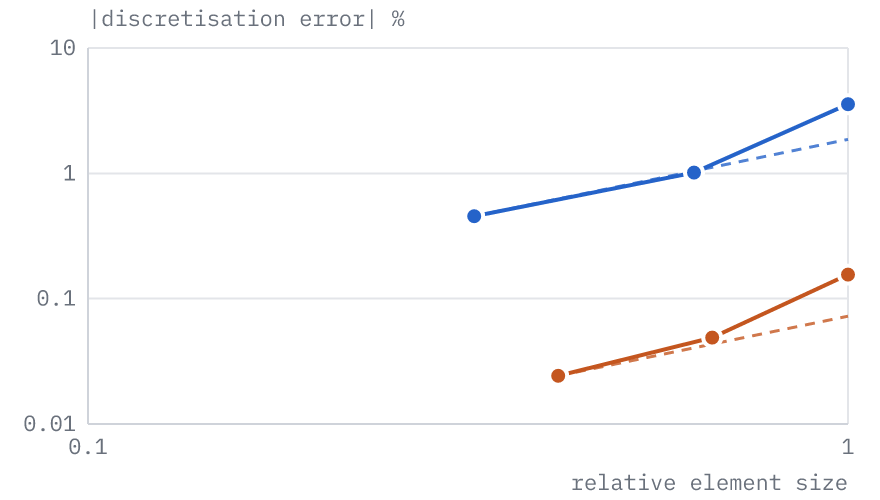
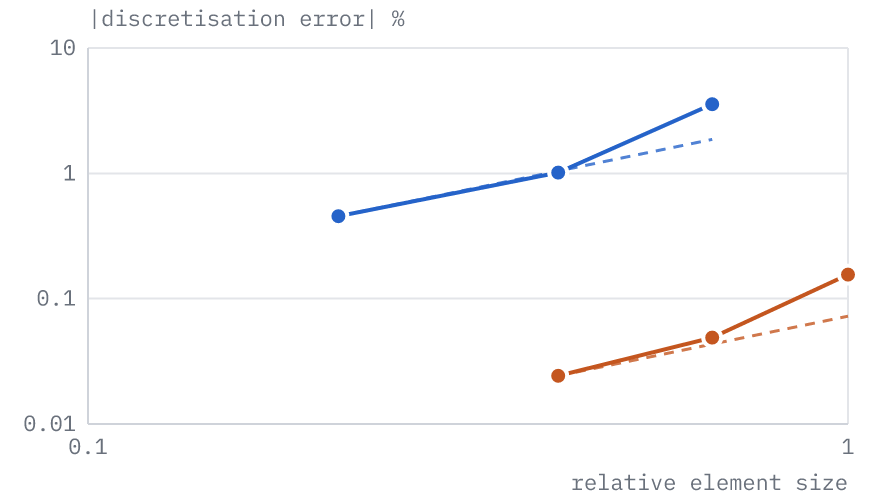
Place each mesh at one size in every series of a rate chart; refuse non-monotone results in the extrapolation
Each series was sized against its own coarsest fitted mesh, so on the
shared axis the cantilever's 12.5 mm mesh sat at 0.47 for P1 and 0.35
for P2. Size every series against the study's coarsest fitted mesh; the
fitted slopes do not change. The extrapolation accepted results that
reverse direction when an interior order fitted them best; C·h^p is
monotonic, so refuse them.

Refs KOF-399

Claude-Session: https://claude.ai/code/session_01G8ZFvwDk6bLCwJffvM6rXE

diff --git a/web/examples/plate-with-hole/index.html b/web/examples/plate-with-hole/index.html
@@ -976,7 +976,7 @@
           <tr><th scope="row">Mesh</th><td>Netgen, 2 mm maximum element size: 13,522 quadratic 10-node tetrahedra (P2)</td></tr>
           <tr><th scope="row">Unknowns</th><td>27,705 nodes, 83,115 degrees of freedom</td></tr>
           <tr><th scope="row">Material</th><td>Linear elastic, isotropic</td></tr>
-          <tr><th scope="row">Solver</th><td>The app's default solver (conjugate gradients with algebraic multigrid, KoFEM's Rust module, build fem-b2b063103186); geometry and mesh by the KoFEM engine (OCCT, Netgen), the WebAssembly build the app runs: engine-44314641a642</td></tr>
+          <tr><th scope="row">Solver</th><td>The app's default solver (conjugate gradients with algebraic multigrid, KoFEM's Rust module, build fem-515dda6e54a6); geometry and mesh by the KoFEM engine (OCCT, Netgen), the WebAssembly build the app runs: engine-44314641a642</td></tr>
         </table>
       </div>
         <p>The strip is symmetric about <math><mi>x</mi><mo>=</mo><mn>0</mn></math>, about <math><mi>y</mi><mo>=</mo><mn>0</mn></math>

diff --git a/web/examples/plate-with-hole-shell/index.html b/web/examples/plate-with-hole-shell/index.html
@@ -951,7 +951,7 @@
           <tr><th scope="row">Mesh</th><td>Netgen, 1 mm maximum element size: 17,283 linear 3-node shell triangles (CST membrane, DKT bending)</td></tr>
           <tr><th scope="row">Unknowns</th><td>8,843 nodes, 53,058 degrees of freedom</td></tr>
           <tr><th scope="row">Material</th><td>Linear elastic, isotropic</td></tr>
-          <tr><th scope="row">Solver</th><td>The app's shell solver (conjugate gradients, KoFEM's Rust module, build fem-b2b063103186); geometry and mesh by the KoFEM engine (OCCT, Netgen), the WebAssembly build the app runs: engine-44314641a642</td></tr>
+          <tr><th scope="row">Solver</th><td>The app's shell solver (conjugate gradients, KoFEM's Rust module, build fem-515dda6e54a6); geometry and mesh by the KoFEM engine (OCCT, Netgen), the WebAssembly build the app runs: engine-44314641a642</td></tr>
         </table>
       </div>
         <p>The strip is symmetric about <math><mi>x</mi><mo>=</mo><mn>0</mn></math> and <math><mi>y</mi><mo>=</mo><mn>0</mn></math>,

diff --git a/web/examples/beam-torsion/index.html b/web/examples/beam-torsion/index.html
@@ -970,7 +970,7 @@
           <tr><th scope="row">Mesh</th><td>Netgen, 12.5 mm maximum element size: 28,470 quadratic 10-node tetrahedra (P2)</td></tr>
           <tr><th scope="row">Unknowns</th><td>44,377 nodes, 133,131 degrees of freedom</td></tr>
           <tr><th scope="row">Material</th><td>Linear elastic, isotropic</td></tr>
-          <tr><th scope="row">Solver</th><td>The app's default solver (conjugate gradients with algebraic multigrid, KoFEM's Rust module, build fem-b2b063103186); geometry and mesh by the KoFEM engine (OCCT, Netgen), the WebAssembly build the app runs: engine-44314641a642</td></tr>
+          <tr><th scope="row">Solver</th><td>The app's default solver (conjugate gradients with algebraic multigrid, KoFEM's Rust module, build fem-515dda6e54a6); geometry and mesh by the KoFEM engine (OCCT, Netgen), the WebAssembly build the app runs: engine-44314641a642</td></tr>
         </table>
       </div>
         <p>The beam is the STEP file a user imports, meshed by Netgen with

diff --git a/web/examples/tie-cantilever/index.html b/web/examples/tie-cantilever/index.html
@@ -951,7 +951,7 @@
           <tr><th scope="row">Mesh</th><td>Netgen, 25 mm maximum element size: 3,036 quadratic 10-node tetrahedra (P2)</td></tr>
           <tr><th scope="row">Unknowns</th><td>5,692 nodes, 17,076 degrees of freedom</td></tr>
           <tr><th scope="row">Material</th><td>Linear elastic, isotropic</td></tr>
-          <tr><th scope="row">Solver</th><td>The app's default solver (conjugate gradients with algebraic multigrid, KoFEM's Rust module, build fem-b2b063103186); geometry and mesh by the KoFEM engine (OCCT, Netgen), the WebAssembly build the app runs: engine-44314641a642</td></tr>
+          <tr><th scope="row">Solver</th><td>The app's default solver (conjugate gradients with algebraic multigrid, KoFEM's Rust module, build fem-515dda6e54a6); geometry and mesh by the KoFEM engine (OCCT, Netgen), the WebAssembly build the app runs: engine-44314641a642</td></tr>
         </table>
       </div>
         <p>The two halves are separate solids in one STEP file. Netgen meshes

diff --git a/web/examples/cantilever-beam/index.html b/web/examples/cantilever-beam/index.html
@@ -965,7 +965,7 @@
           <tr><th scope="row">Mesh</th><td>Netgen, 25 mm maximum element size: 2,991 quadratic 10-node tetrahedra (P2)</td></tr>
           <tr><th scope="row">Unknowns</th><td>5,532 nodes, 16,596 degrees of freedom</td></tr>
           <tr><th scope="row">Material</th><td>Linear elastic, isotropic</td></tr>
-          <tr><th scope="row">Solver</th><td>The app's default solver (conjugate gradients with algebraic multigrid, KoFEM's Rust module, build fem-b2b063103186); geometry and mesh by the KoFEM engine (OCCT, Netgen), the WebAssembly build the app runs: engine-44314641a642</td></tr>
+          <tr><th scope="row">Solver</th><td>The app's default solver (conjugate gradients with algebraic multigrid, KoFEM's Rust module, build fem-515dda6e54a6); geometry and mesh by the KoFEM engine (OCCT, Netgen), the WebAssembly build the app runs: engine-44314641a642</td></tr>
         </table>
       </div>
         <p>The beam is the STEP file a user imports, meshed by Netgen with a

diff --git a/web/examples/shaft-torsion/index.html b/web/examples/shaft-torsion/index.html
@@ -959,7 +959,7 @@
           <tr><th scope="row">Mesh</th><td>Netgen, 10 mm maximum element size: 9,570 quadratic 10-node tetrahedra (P2)</td></tr>
           <tr><th scope="row">Unknowns</th><td>18,898 nodes, 56,694 degrees of freedom</td></tr>
           <tr><th scope="row">Material</th><td>Linear elastic, isotropic</td></tr>
-          <tr><th scope="row">Solver</th><td>The app's default solver (conjugate gradients with algebraic multigrid, KoFEM's Rust module, build fem-b2b063103186); geometry and mesh by the KoFEM engine (OCCT, Netgen), the WebAssembly build the app runs: engine-44314641a642</td></tr>
+          <tr><th scope="row">Solver</th><td>The app's default solver (conjugate gradients with algebraic multigrid, KoFEM's Rust module, build fem-515dda6e54a6); geometry and mesh by the KoFEM engine (OCCT, Netgen), the WebAssembly build the app runs: engine-44314641a642</td></tr>
         </table>
       </div>
         <p>The tube is the STEP file a user imports, meshed by Netgen with

diff --git a/web/examples/tie-lame-cylinder/index.html b/web/examples/tie-lame-cylinder/index.html
@@ -958,7 +958,7 @@
           <tr><th scope="row">Mesh</th><td>Netgen, 4 mm maximum element size: 2,862 linear 4-node tetrahedra (P1)</td></tr>
           <tr><th scope="row">Unknowns</th><td>1,088 nodes, 3,264 degrees of freedom</td></tr>
           <tr><th scope="row">Material</th><td>Linear elastic, isotropic</td></tr>
-          <tr><th scope="row">Solver</th><td>The app's default solver (conjugate gradients with algebraic multigrid, KoFEM's Rust module, build fem-b2b063103186); geometry and mesh by the KoFEM engine (OCCT, Netgen), the WebAssembly build the app runs: engine-44314641a642</td></tr>
+          <tr><th scope="row">Solver</th><td>The app's default solver (conjugate gradients with algebraic multigrid, KoFEM's Rust module, build fem-515dda6e54a6); geometry and mesh by the KoFEM engine (OCCT, Netgen), the WebAssembly build the app runs: engine-44314641a642</td></tr>
         </table>
       </div>
         <p>A quarter of the cylinder is modelled, with symmetry supports on

diff --git a/web/examples/cooks-membrane/index.html b/web/examples/cooks-membrane/index.html
@@ -960,7 +960,7 @@
           <tr><th scope="row">Mesh</th><td>Netgen, 2 mm maximum element size: 2,697 quadratic 10-node tetrahedra (P2)</td></tr>
           <tr><th scope="row">Unknowns</th><td>5,711 nodes, 17,133 degrees of freedom</td></tr>
           <tr><th scope="row">Material</th><td>Linear elastic, isotropic</td></tr>
-          <tr><th scope="row">Solver</th><td>The app's default solver (conjugate gradients with algebraic multigrid, KoFEM's Rust module, build fem-b2b063103186); geometry and mesh by the KoFEM engine (OCCT, Netgen), the WebAssembly build the app runs: engine-44314641a642</td></tr>
+          <tr><th scope="row">Solver</th><td>The app's default solver (conjugate gradients with algebraic multigrid, KoFEM's Rust module, build fem-515dda6e54a6); geometry and mesh by the KoFEM engine (OCCT, Netgen), the WebAssembly build the app runs: engine-44314641a642</td></tr>
         </table>
       </div>
         <p>KoFEM is a 3-D solver, so the panel is a slab of thickness

diff --git a/web/examples/axial-bar/index.html b/web/examples/axial-bar/index.html
@@ -970,7 +970,7 @@
           <tr><th scope="row">Mesh</th><td>Netgen, 25 mm maximum element size: 2,991 linear 4-node tetrahedra (P1)</td></tr>
           <tr><th scope="row">Unknowns</th><td>911 nodes, 2,733 degrees of freedom</td></tr>
           <tr><th scope="row">Material</th><td>Linear elastic, isotropic</td></tr>
-          <tr><th scope="row">Solver</th><td>The app's default solver (conjugate gradients with algebraic multigrid, KoFEM's Rust module, build fem-b2b063103186); geometry and mesh by the KoFEM engine (OCCT, Netgen), the WebAssembly build the app runs: engine-44314641a642</td></tr>
+          <tr><th scope="row">Solver</th><td>The app's default solver (conjugate gradients with algebraic multigrid, KoFEM's Rust module, build fem-515dda6e54a6); geometry and mesh by the KoFEM engine (OCCT, Netgen), the WebAssembly build the app runs: engine-44314641a642</td></tr>
         </table>
       </div>
         <p>The bar is the STEP file a user imports, meshed by Netgen with

diff --git a/web/examples/tie-patch-test/index.html b/web/examples/tie-patch-test/index.html
@@ -952,7 +952,7 @@
           <tr><th scope="row">Mesh</th><td>Netgen, 10 mm maximum element size: 742 linear 4-node tetrahedra (P1)</td></tr>
           <tr><th scope="row">Unknowns</th><td>276 nodes, 828 degrees of freedom</td></tr>
           <tr><th scope="row">Material</th><td>Linear elastic, isotropic</td></tr>
-          <tr><th scope="row">Solver</th><td>The app's default solver (conjugate gradients with algebraic multigrid, KoFEM's Rust module, build fem-b2b063103186); geometry and mesh by the KoFEM engine (OCCT, Netgen), the WebAssembly build the app runs: engine-44314641a642</td></tr>
+          <tr><th scope="row">Solver</th><td>The app's default solver (conjugate gradients with algebraic multigrid, KoFEM's Rust module, build fem-515dda6e54a6); geometry and mesh by the KoFEM engine (OCCT, Netgen), the WebAssembly build the app runs: engine-44314641a642</td></tr>
         </table>
       </div>
         <p>The two blocks are separate solids in one STEP file. Netgen meshes

diff --git a/web/examples/surface-pressure/index.html b/web/examples/surface-pressure/index.html
@@ -949,7 +949,7 @@
           <tr><th scope="row">Mesh</th><td>Netgen, 25 mm maximum element size: 2,991 linear 4-node tetrahedra (P1)</td></tr>
           <tr><th scope="row">Unknowns</th><td>911 nodes, 2,733 degrees of freedom</td></tr>
           <tr><th scope="row">Material</th><td>Linear elastic, isotropic</td></tr>
-          <tr><th scope="row">Solver</th><td>The app's default solver (conjugate gradients with algebraic multigrid, KoFEM's Rust module, build fem-b2b063103186); geometry and mesh by the KoFEM engine (OCCT, Netgen), the WebAssembly build the app runs: engine-44314641a642</td></tr>
+          <tr><th scope="row">Solver</th><td>The app's default solver (conjugate gradients with algebraic multigrid, KoFEM's Rust module, build fem-515dda6e54a6); geometry and mesh by the KoFEM engine (OCCT, Netgen), the WebAssembly build the app runs: engine-44314641a642</td></tr>
         </table>
       </div>
         <p>The bar, its Netgen mesh and its clamp are the

diff --git a/crates/kofem-fem/src/convergence.rs b/crates/kofem-fem/src/convergence.rs
@@ -182,6 +182,21 @@ pub fn extrapolate(sizes: &[f64], values: &[f64]) -> Result<Extrapolation, FemEr
             "the element sizes are all equal, so they give no order",
         ));
     }
+    // φ∞ + C·hᵖ with p > 0 is monotonic in h: results that change direction
+    // between successive meshes are not in the asymptotic range, whatever
+    // order fits them best.
+    let mut by_size: Vec<(f64, f64)> = scaled.iter().copied().zip(values.iter().copied()).collect();
+    by_size.sort_by(|first, second| second.0.total_cmp(&first.0));
+    let steps: Vec<f64> = by_size
+        .windows(2)
+        .map(|pair| pair[1].1 - pair[0].1)
+        .collect();
+    if !(steps.iter().all(|step| *step > 0.0) || steps.iter().all(|step| *step < 0.0)) {
+        return Err(refuse(
+            "the results do not change monotonically as the mesh is refined, so they are not \
+             in the asymptotic range and give no limit",
+        ));
+    }
 
     // Scan log-spaced orders for the smallest residual, then refine it by
     // golden-section search inside the bracketing scan cells.
